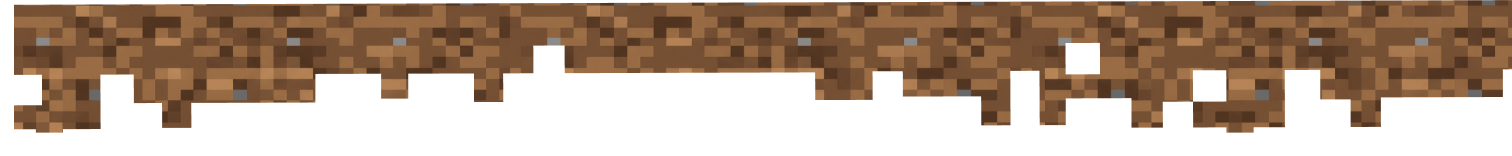
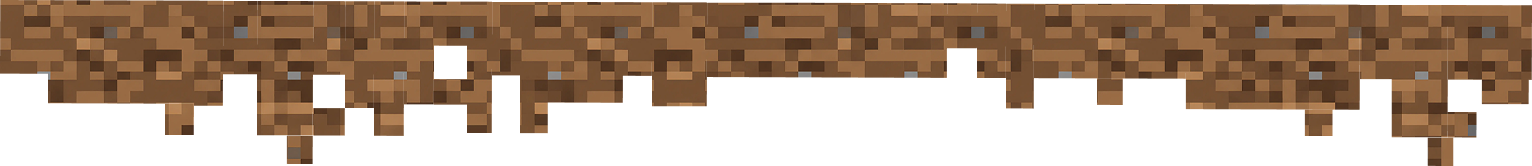
Add CraftSection component to App and update SeedSection styling
- Introduced CraftSection component to enhance the application with crafting features.
- Updated App.jsx to include CraftSection in the main layout.
- Modified SeedSection to correct coordinate formatting and improve HelpCard rendering.
- Updated asset for terra-transition to support new CraftSection visuals.

diff --git a/src/components/sections/SeedSection.jsx b/src/components/sections/SeedSection.jsx
@@ -64,7 +64,7 @@ const SeedSection = () => {
     {
       image: aldeiaSeed,
       title: "MONOLITO DA ALDEIA",
-      coords: "--416, 128",
+      coords: "-416, 128",
       seed: "-6537256334104833826",
     },
     {
@@ -126,8 +126,8 @@ const SeedSection = () => {
           ))}
         </div>
       </div>
-      
-      <HelpCard 
+
+      <HelpCard
         title="O QUE É UMA SEED?"
         content="Seeds são códigos únicos que geram mundos específicos no Minecraft. Cada seed cria um mundo com terrenos, estruturas e biomas únicos. Usando a mesma seed, você pode gerar o mesmo mundo quantas vezes quiser! As coordenadas mostram onde encontrar pontos interessantes como aldeias, templos ou estruturas raras."
       />

diff --git a/src/components/sections/CraftSection.jsx b/src/components/sections/CraftSection.jsx
@@ -1,0 +1,25 @@
+import terraTransition from "../../assets/terra-transition.png";
+
+const CraftSection = () => {
+  return (
+    <section
+      id="craft"
+      className="relative min-h-screen flex items-center justify-center py-10 sm:py-14 px-4 overflow-hidden -mt-4"
+      style={{ contentVisibility: "auto" }}
+    >
+      <div className="relative z-10 w-full max-w-6xl mt-24 sm:mt-28">
+        {/* Conteúdo da seção craft */}
+      </div>
+
+      <img
+        className="pointer-events-none absolute left-0 w-full block z-[100] -top-13"
+        src={terraTransition}
+        alt=""
+        loading="lazy"
+        decoding="async"
+      />
+    </section>
+  );
+};
+
+export default CraftSection;

diff --git a/src/App.jsx b/src/App.jsx
@@ -5,6 +5,7 @@ import {
   CharacterSelection,
   GuideSection,
   SeedSection,
+  CraftSection,
 } from "./components/sections";
 import { Transition } from "./components/ui";
 
@@ -30,6 +31,7 @@ function App() {
       <Transition className="-top-28" />
       <GuideSection />
       <SeedSection />
+      <CraftSection />
     </div>
   );
 }

diff --git a/src/components/sections/index.js b/src/components/sections/index.js
@@ -4,3 +4,4 @@ export { default as CharacterSelection } from "./CharacterSelection";
 export { default as GuideSection } from "./GuideSection";
 export { default as GuideCard } from "./GuideCard";
 export { default as SeedSection } from "./SeedSection";
+export { default as CraftSection } from "./CraftSection";
